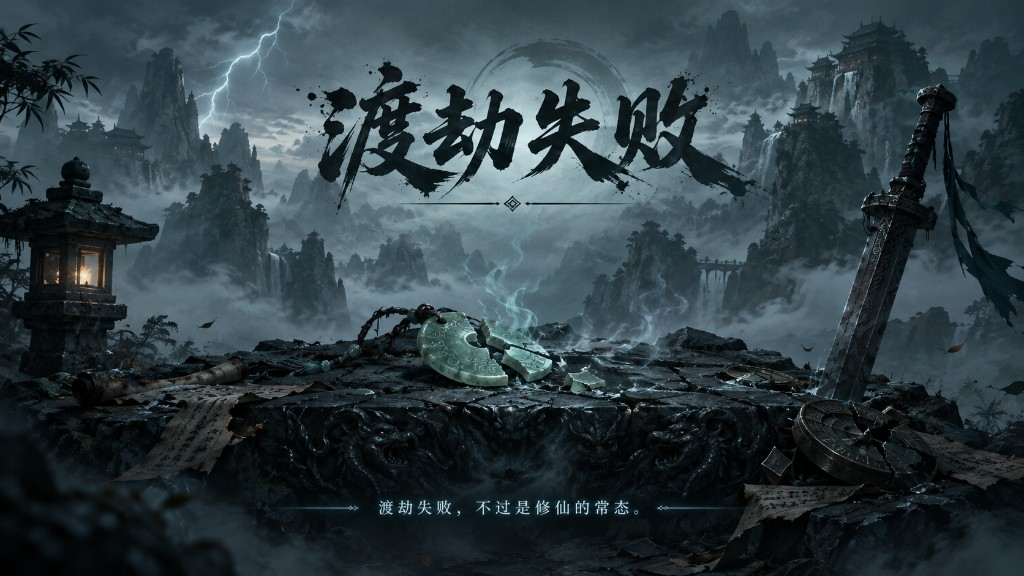
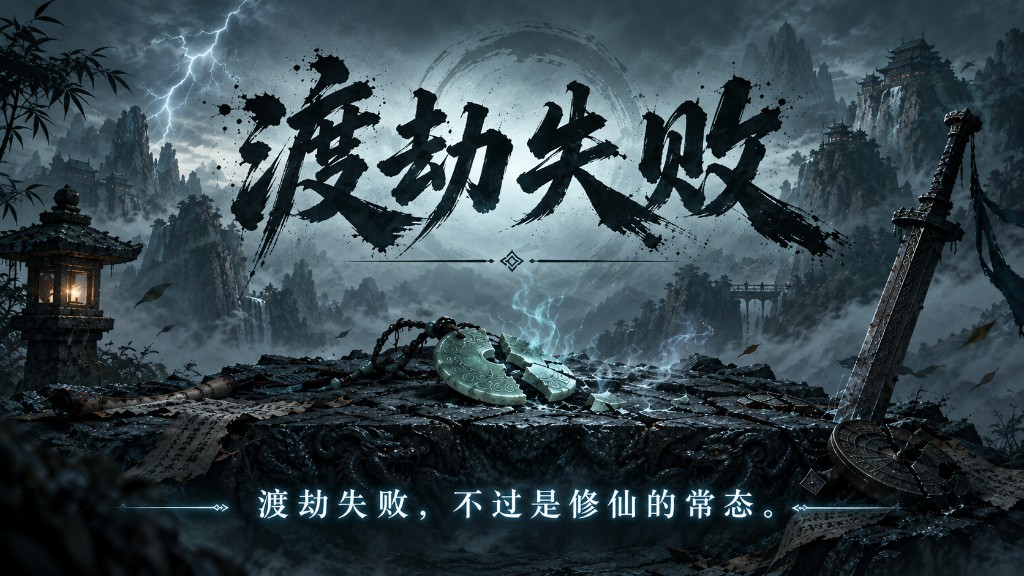
Swap defeat overlay art to the new 渡劫失败 illustration.

diff --git a/src/components/DefeatOverlay.tsx b/src/components/DefeatOverlay.tsx
@@ -15,7 +15,7 @@ export function DefeatOverlay({ onRestart, onReturnMenu }: DefeatOverlayProps) {
       <div className="defeat-overlay-content">
         <img
           className="defeat-overlay-art"
-          src={publicAsset("/ui/defeat-dujie.jpg")}
+          src={`${publicAsset("/ui/defeat-dujie.jpg")}?v=2`}
           alt="渡劫失敗"
           draggable={false}
         />
